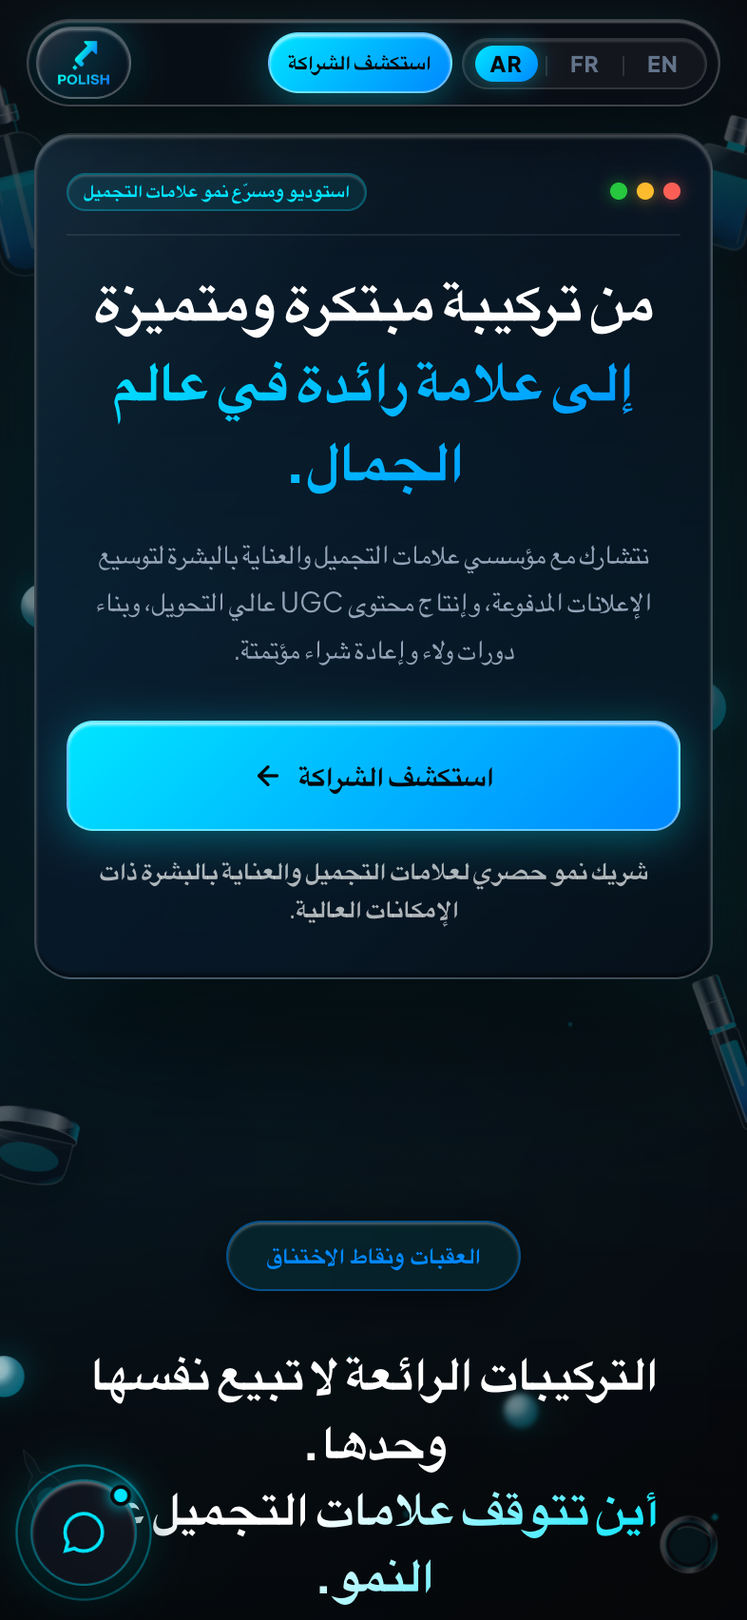
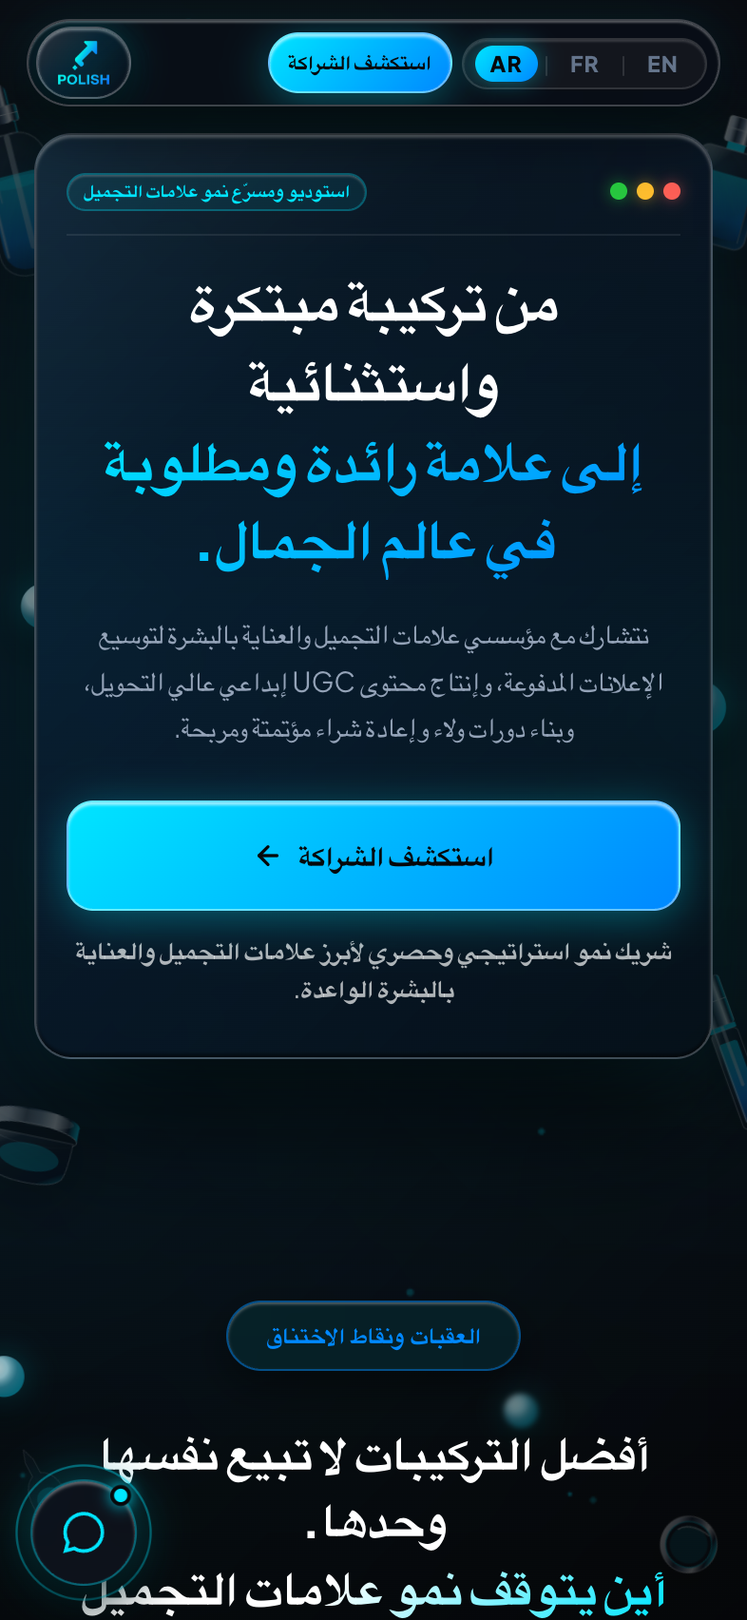
copy: elevate French and Arabic localization to authentic luxury direct-response standards

diff --git a/public/js/i18n.js b/public/js/i18n.js
@@ -134,39 +134,39 @@ const POLISH_TRANSLATIONS = {
     // Hero Section
     "hero.windowTag": "ACCÉLÉRATEUR & STUDIO DE CROISSANCE BEAUTÉ",
     "hero.eyebrow": "ACCÉLÉRATEUR & STUDIO DE CROISSANCE BEAUTÉ",
-    "hero.headlineLine1": "De la Formulation de Rupture",
+    "hero.headlineLine1": "De la Formulation d'Exception",
     "hero.headlineLine2": "À la Marque de Cosmétique Incontournable.",
-    "hero.description": "Nous accompagnons les marques de cosmétiques visionnaires pour accélérer leur acquisition payante, leurs campagnes créateurs UGC et leur rétention.",
+    "hero.description": "Nous nous associons aux fondateurs de marques de cosmétiques visionnaires pour accélérer l'acquisition payante, orchestrer des campagnes UGC créateurs à forte conversion et automatiser la fidélisation.",
     "hero.cta": "Découvrir le Partenariat",
-    "hero.microTrust": "Partenaire de croissance exclusif des marques de beauté et cosmétique.",
+    "hero.microTrust": "Partenaire de croissance exclusif des marques de beauté et cosmétique haut de gamme.",
 
     // Agitation Section
     "agit.eyebrow": "LES FREINS DU DTC BEAUTÉ",
-    "agit.headlineLine1": "Une bonne formule ne suffit pas.",
-    "agit.headlineLine2": "Là où les marques de beauté stagnent.",
-    "agit.description": "La plupart des marques de beauté stagnent par manque d'accroches visuelles renouvelées et de rentabilité publicitaire.",
-    "agit.card0.tag": "01 • FATIGUE CRÉATIVE",
-    "agit.card0.title": "Les Publicités S'épuisent Vite",
-    "agit.card0.desc": "Sans un flux constant de nouvelles accroches et vidéos, la fatigue publicitaire fait exploser votre coût d'acquisition.",
-    "agit.card1.tag": "02 • ZÉRO CONVERSION",
-    "agit.card1.title": "L'Esthétique Pure Ne Vend Pas",
-    "agit.card1.desc": "Les jolies vidéos ne suffisent pas. La conversion exige des scripts calibrés, des gros plans de texture et la démonstration des actifs.",
-    "agit.card2.tag": "03 • ZÉRO RÉPÉTITION",
-    "agit.card2.title": "Les Achats Uniques Rongent Vos Marges",
-    "agit.card2.desc": "Sans réassort sous 60 jours, votre rentabilité s'évapore. Nous transformons vos premiers acheteurs en clients réguliers.",
+    "agit.headlineLine1": "Une Formule d'Exception Ne Se Vend Pas Seule.",
+    "agit.headlineLine2": "Là où les marques de beauté rencontrent un plafond.",
+    "agit.description": "La plupart des marques de beauté stagnent non par manque de qualité produit, mais par épuisement créatif et hausse des coûts d'acquisition.",
+    "agit.card0.tag": "01 • ÉPUISEMENT CRÉATIF",
+    "agit.card0.title": "Vos Publicités S'essoufflent en 14 Jours",
+    "agit.card0.desc": "Sans un flux continu de nouvelles accroches et vidéos, l'usure publicitaire fait exploser votre coût d'acquisition client.",
+    "agit.card1.tag": "02 • DÉFICIT DE CONVERSION",
+    "agit.card1.title": "L'Esthétique Pure Ne Génère Pas de Ventes",
+    "agit.card1.desc": "Un feed soigné ne garantit aucun chiffre d'affaires. La conversion exige des accroches psychologiques, l'explication des actifs et la démonstration visuelle des textures.",
+    "agit.card2.tag": "03 • FAIBLE RÉASSORT",
+    "agit.card2.title": "Les Acheteurs Uniques Érodent Vos Marges",
+    "agit.card2.desc": "Sans deuxième achat sous 60 jours, l'acquisition grignote vos bénéfices. Nous transformons chaque première commande en réapprovisionnement récurrent.",
 
     // Pillars Section
     "pillars.eyebrow": "NOTRE MOTEUR DE CROISSANCE",
     "pillars.headlineLine1": "Conçu Spécifiquement",
-    "pillars.headlineLine2": "Pour l'Échelle des Marques de Beauté.",
+    "pillars.headlineLine2": "Pour l'Échelle des Marques de Beauté & Cosmétique.",
     "pillars.item0.title": "Studio Créateurs & UGC Haute Vélocité",
-    "pillars.item0.desc": "Créateurs beauté triés sur le volet, briefés avec des accroches percutantes et des démonstrations de texture.",
-    "pillars.item1.title": "Acquisition Payante Rentable (Meta & TikTok)",
-    "pillars.item1.desc": "Campagnes TikTok et Meta pilotées à la rentabilité pour maximiser votre retour sur investissement.",
-    "pillars.item2.title": "Optimisation du Taux de Conversion & Routines",
-    "pillars.item2.desc": "Pages de vente immersives, routines multi-produits et ventes croisées pour augmenter le Panier Moyen.",
-    "pillars.item3.title": "Fidélisation & Boucles de Réassort Automatisées",
-    "pillars.item3.desc": "Rappels de réapprovisionnement programmés et séquences VIP pour fidéliser vos clients mois après mois.",
+    "pillars.item0.desc": "Créateurs beauté triés sur le volet, briefés avec des accroches à forte conversion, des démonstrations de texture et des rituels de soin ciblés.",
+    "pillars.item1.title": "Acquisition Payante Axée sur la Rentabilité",
+    "pillars.item1.desc": "Campagnes TikTok et Meta pilotées à la rentabilité pour maximiser votre retour sur investissement publicitaire (ROAS) et générer une croissance pérenne.",
+    "pillars.item2.title": "Optimisation du Taux de Conversion & Offres Bundles",
+    "pillars.item2.desc": "Pages produits immersives, rituels multi-étapes et ventes complémentaires intelligentes pour augmenter significativement le Panier Moyen (AOV).",
+    "pillars.item3.title": "Boucles de Réassort & Rétention Automatisées",
+    "pillars.item3.desc": "Relances programmées de renouvellement et séquences VIP personnalisées pour maximiser la Valeur Vie Client (LTV) mois après mois.",
 
     // Footer
     "footer.copy": "© 2026 POLISH Media Co. Tous droits réservés.",
@@ -181,64 +181,64 @@ const POLISH_TRANSLATIONS = {
     "apply.eyebrow": "DOSSIER DE PARTENARIAT",
     "apply.h1Line1": "Développez Votre Marque de Beauté.",
     "apply.h1Line2": "Postulez au Partenariat Studio.",
-    "apply.p": "Complétez ce dossier confidentiel en 2 minutes pour étudier l'accélération de votre marque.",
+    "apply.p": "Complétez ce dossier confidentiel en 2 minutes pour étudier l'accélération de votre marque avec POLISH.",
     "apply.step1": "1. Profil Marque",
     "apply.step2": "2. Catégorie & Objectifs",
     "apply.step1Title": "Profil de la Marque & Contact",
-    "apply.step1Desc": "Indiquez les liens pour découvrir vos produits et vos créations.",
+    "apply.step1Desc": "Indiquez les informations de votre marque et les liens pour découvrir vos formulations.",
     "apply.step2Title": "Catégorie & Votre Rôle",
-    "apply.step2Desc": "Précisez votre positionnement produit et votre fonction.",
+    "apply.step2Desc": "Précisez votre segment de marché et vos responsabilités décisionnelles.",
     "apply.step3Title": "Organisation Marketing Actuelle",
-    "apply.step3Desc": "Comment réalisez-vous actuellement votre acquisition ?",
+    "apply.step3Desc": "Comment réalisez-vous actuellement votre acquisition de nouveaux clients ?",
     "apply.fullName": "Nom et Prénom",
     "apply.brandName": "Nom de la Marque",
     "apply.businessCategory": "Catégorie de Produits",
     "apply.role": "Votre Rôle",
     "apply.websiteUrl": "Site Web / Boutique en Ligne",
     "apply.socialLink": "Lien Réseau Social Principal (Instagram / TikTok)",
-    "apply.marketingHistory": "Statut Marketing",
-    "apply.primaryGoal": "Objectif Principal à 90 Jours",
-    "apply.optSkin": "Soins de la Peau & Clinique",
-    "apply.optColor": "Maquillage & Cosmétique",
+    "apply.marketingHistory": "Statut Marketing Actuel",
+    "apply.primaryGoal": "Objectif Prioritaire à 90 Jours",
+    "apply.optSkin": "Soins de la Peau & Cosmétique Clinique",
+    "apply.optColor": "Maquillage & Cosmétique Couleur",
     "apply.optHair": "Soins Capillaires & Cuir Chevelu",
-    "apply.optFragrance": "Parfumerie & Corps",
-    "apply.optFounder": "Fondateur / CEO",
-    "apply.optMarketing": "Directeur Marketing / CMO",
+    "apply.optFragrance": "Haute Parfumerie & Soins Corps",
+    "apply.optFounder": "Fondateur / Directeur Général (CEO)",
+    "apply.optMarketing": "Directeur Marketing (CMO)",
     "apply.optEcommerce": "Directeur E-Commerce",
-    "apply.optAgency": "Représentant de Marque",
-    "apply.optHistNone": "Organique / Influence uniquement (pas encore de pubs)",
-    "apply.optHistAgency": "En agence actuellement, recherche de meilleures créas & ROAS",
-    "apply.optHistInHouse": "En interne, prêt à accélérer la rentabilité",
-    "apply.optHistStarting": "Marque en pré-lancement ou récente",
+    "apply.optAgency": "Représentant Officiel de la Marque",
+    "apply.optHistNone": "Croissance organique & influence uniquement (aucun budget publicitaire actif)",
+    "apply.optHistAgency": "En agence actuellement, à la recherche de meilleures créas et d'un ROAS supérieur",
+    "apply.optHistInHouse": "Gestion interne, prêt à accélérer la rentabilité à grande échelle",
+    "apply.optHistStarting": "Marque en cours de lancement ou récente sur le marché",
     "apply.btnNext": "Continuer →",
     "apply.btnBack": "← Retour",
-    "apply.btnSubmit": "Envoyer le Dossier de Partenariat",
-    "apply.trustNda": "100% Confidentiel : Protégé sous accord NDA strict.",
-    "apply.trustReview": "Examen Direct : Analysé personnellement sous 24h.",
-    "apply.successTitle": "Dossier Reçu",
-    "apply.successP": "Votre dossier a été enregistré. Un directeur associé analysera votre marque sous 24 heures.",
+    "apply.btnSubmit": "Soumettre le Dossier de Partenariat",
+    "apply.trustNda": "Confidentialité Absolue 100% : Protégé par un accord de non-divulgation strict (NDA).",
+    "apply.trustReview": "Examen Personnalisé : Analysé directement par la direction sous 24h ouvrées.",
+    "apply.successTitle": "Dossier Enregistré avec Succès",
+    "apply.successP": "Votre dossier a été transmis à notre comité de direction. Un associé analysera votre marque et vous contactera sous 24 heures.",
     "apply.successCta": "Contacter la Direction sur WhatsApp →",
 
     // Creators Page
-    "creators.title": "Réseau Créateurs | POLISH Media Co",
+    "creators.title": "Réseau Créateurs & UGC | POLISH Media Co",
     "creators.eyebrow": "RÉSEAU CRÉATEURS & UGC",
-    "creators.h1": "Créez pour les Marques de Beauté.",
-    "creators.h1Line1": "Créez pour les Marques de Beauté.",
-    "creators.h1Line2": "Rejoignez le Réseau POLISH.",
-    "creators.h1Accent": "Rejoignez le Réseau POLISH.",
-    "creators.p": "Participez à des tournages rémunérés, recevez des produits et accédez à des partenariats réguliers.",
+    "creators.h1": "Créez pour les Plus Belles Marques de Beauté.",
+    "creators.h1Line1": "Créez pour les Plus Belles Marques de Beauté.",
+    "creators.h1Line2": "Rejoignez le Réseau Exclusif POLISH.",
+    "creators.h1Accent": "Rejoignez le Réseau Exclusif POLISH.",
+    "creators.p": "Participez à des campagnes rémunérées, recevez des dotations produits exclusives et accédez à des contrats récurrents.",
     "creators.fullName": "Nom et Prénom",
-    "creators.socialHandle": "Lien Profil Réseau Social Principal",
-    "creators.socialHint": "Lien Instagram ou TikTok pour évaluer votre univers.",
-    "creators.portfolio": "Lien Portfolio / Vidéos",
-    "creators.portfolioHint": "Extraits UGC, unboxings ou démonstrations (optionnel).",
-    "creators.phone": "Numéro WhatsApp ou Téléphone",
-    "creators.phoneHint": "Pour échanger rapidement sur les tournages rémunérés.",
-    "creators.btnSubmit": "Soumettre mon Profil Créateur",
-    "creators.trustReview": "Sélection Rapide : Les créateurs retenus sont contactés sur WhatsApp pour les prochains tournages.",
-    "creators.successTitle": "Profil Reçu",
-    "creators.successP": "Votre profil a été ajouté à notre base de casting sous la référence :",
-    "creators.successCta": "Échanger avec le Casting sur WhatsApp →"
+    "creators.socialHandle": "Lien de Votre Profil Social Principal",
+    "creators.socialHint": "Lien Instagram ou TikTok pour évaluer votre présence et univers créatif.",
+    "creators.portfolio": "Portfolio / Vidéos Réalisées (Optionnel)",
+    "creators.portfolioHint": "Extraits UGC passés, unboxings ou démonstrations de texture.",
+    "creators.phone": "Numéro WhatsApp / Téléphone",
+    "creators.phoneHint": "Pour échanger directement lors des sélections de casting pour les tournages rémunérés.",
+    "creators.btnSubmit": "Soumettre ma Candidature Créateur",
+    "creators.trustReview": "Sélection Rapide : Les créateurs retenus sont contactés sur WhatsApp sous 48h.",
+    "creators.successTitle": "Candidature Bien Reçue",
+    "creators.successP": "Votre profil a été intégré à notre base de casting créateurs sous la référence :",
+    "creators.successCta": "Échanger avec l'Équipe Casting sur WhatsApp →"
   },
 
   ar: {
@@ -251,39 +251,39 @@ const POLISH_TRANSLATIONS = {
     // Hero Section
     "hero.windowTag": "استوديو ومسرّع نمو علامات التجميل",
     "hero.eyebrow": "استوديو ومسرّع نمو علامات التجميل",
-    "hero.headlineLine1": "من تركيبة مبتكرة ومتميزة",
-    "hero.headlineLine2": "إلى علامة رائدة في عالم الجمال.",
-    "hero.description": "نتشارك مع مؤسسي علامات التجميل والعناية بالبشرة لتوسيع الإعلانات المدفوعة، وإنتاج محتوى UGC عالي التحويل، وبناء دورات ولاء وإعادة شراء مؤتمتة.",
+    "hero.headlineLine1": "من تركيبة مبتكرة واستثنائية",
+    "hero.headlineLine2": "إلى علامة رائدة ومطلوبة في عالم الجمال.",
+    "hero.description": "نتشارك مع مؤسسي علامات التجميل والعناية بالبشرة لتوسيع الإعلانات المدفوعة، وإنتاج محتوى UGC إبداعي عالي التحويل، وبناء دورات ولاء وإعادة شراء مؤتمتة ومربحة.",
     "hero.cta": "استكشف الشراكة",
-    "hero.microTrust": "شريك نمو حصري لعلامات التجميل والعناية بالبشرة ذات الإمكانات العالية.",
+    "hero.microTrust": "شريك نمو استراتيجي وحصري لأبرز علامات التجميل والعناية بالبشرة الواعدة.",
 
     // Agitation Section
     "agit.eyebrow": "العقبات ونقاط الاختناق",
-    "agit.headlineLine1": "التركيبات الرائعة لا تبيع نفسها وحدها.",
-    "agit.headlineLine2": "أين تتوقف علامات التجميل عن النمو.",
-    "agit.description": "معظم علامات التجميل تتعثر ليس بسبب ضعف منتجاتها، بل بسبب استنزاف الإعلانات والارتفاع المستمر في تكلفة اكتساب العملاء.",
-    "agit.card0.tag": "01 • استنزاف الإعلانات",
+    "agit.headlineLine1": "أفضل التركيبات لا تبيع نفسها وحدها.",
+    "agit.headlineLine2": "أين يتوقف نمو علامات التجميل الواعدة؟",
+    "agit.description": "معظم علامات التجميل لا تتعثر بسبب جودة منتجاتها، بل بسبب استنزاف الأفكار الإعلانية والارتفاع المتواصل في تكاليف اكتساب العملاء.",
+    "agit.card0.tag": "01 • استنزاف المحتوى الإعلاني",
     "agit.card0.title": "الإعلانات تفقد بريقها خلال 14 يوماً",
-    "agit.card0.desc": "بدون تدفق مستمر لأفكار وزوايا فيديو جديدة، تتراجع استجابة الجمهور وترتفع تكلفة الاستحواذ على العملاء بشكل كبير.",
-    "agit.card1.tag": "02 • غياب التحويل الفعلي",
-    "agit.card1.title": "المشاهدات الجمالية لا تضمن مبيعات",
-    "agit.card1.desc": "المحتوى الجذاب وحده لا يكفي. تحقيق المبيعات يتطلب خطافات بصرية مدروسة، وشرحاً للتركيبة، وإثباتاً ملموساً لنتائج المنتج على البشرة.",
-    "agit.card2.tag": "03 • ضعف إعادة الشراء",
+    "agit.card0.desc": "بدون تجديد مستمر لزوايا الفيديو والخطافات البصرية، تتراجع معدلات النقر وترتفع تكلفة الاستحواذ على العملاء بشكل حاد.",
+    "agit.card1.tag": "02 • ضعف معدلات التحويل المالي",
+    "agit.card1.title": "المشاهدات الجمالية لا تعني بالضرورة مبيعات",
+    "agit.card1.desc": "المحتوى الأنيق وحده لا يحقق أرباحاً. تحقيق المبيعات يتطلب خطافات نفسية مدروسة، وشرحاً مقنعاً للتركيبة، وإثباتاً ملموساً لقوام ونتائج المنتج على البشرة.",
+    "agit.card2.tag": "03 • غياب تكرار الشراء",
     "agit.card2.title": "المشترون لمرة واحدة يستنزفون هوامش الربح",
-    "agit.card2.desc": "إذا لم يكرر العميل الشراء خلال 60 يوماً، فإن تكلفة الإعلانات تلتهم أرباحك. نحن نحول المشترين الجدد إلى عملاء دائمين يطلبون بانتظام.",
+    "agit.card2.desc": "إذا لم تعد المشترية للطلب خلال 60 يوماً، فإن تكاليف الإعلانات تلتهم أرباحك الصافية. نحن نحول الطلبات الفردية إلى دورات إعادة شراء مستمرة.",
 
     // Pillars Section
-    "pillars.eyebrow": "محرك النمو",
+    "pillars.eyebrow": "محرك النمو الاستراتيجي",
     "pillars.headlineLine1": "مصمم خصيصاً",
-    "pillars.headlineLine2": "لتوسيع ومضاعفة مبيعات التجميل والعناية.",
-    "pillars.item0.title": "استوديو محتوى UGC عالي الكثافة",
-    "pillars.item0.desc": "صناع محتوى تجميل معتمدون وموجّهون بأفضل زوايا التصوير، واستعراض قوام المنتجات، وخطوات العناية بالبشرة عالية التأثير.",
-    "pillars.item1.title": "إعلانات مدفوعة تركز على الربحية",
-    "pillars.item1.desc": "حملات موجهة عبر Meta وTikTok مدروسة بعناية لتحقيق أعلى عائد على الإنفاق الإعلاني (ROAS) ونمو مستدام.",
-    "pillars.item2.title": "تحسين التحويل وباقات الروتين التجميلي",
-    "pillars.item2.desc": "صفحات هبوط عالية الإقناع، وباقات روتين متكاملة، وخيارات ترقية ذكية ترفع متوسط قيمة الطلب (AOV).",
-    "pillars.item3.title": "دورات إعادة طلب مؤتمتة",
-    "pillars.item3.desc": "تذكيرات ذكية لإعادة تعبئة المنتجات وسلاسل ولاء لكبار العملاء لتعظيم القيمة الدائمة لكل مشترية.",
+    "pillars.headlineLine2": "لمضاعفة مبيعات علامات التجميل والعناية بالبشرة.",
+    "pillars.item0.title": "استوديو إنتاج UGC عالي الكثافة",
+    "pillars.item0.desc": "صناع محتوى تجميل معتمدون وموجّهون بأفضل زوايا التصوير، واستعراض قوام المنتجات، وخطوات العناية بالبشرة المؤثرة.",
+    "pillars.item1.title": "إعلانات مدفوعة موجهة للربحية",
+    "pillars.item1.desc": "حملات ذكية عبر Meta وTikTok مدروسة بدقة لتحقيق أعلى عائد على الإنفاق الإعلاني (ROAS) وتوسيع المبيعات بربحية.",
+    "pillars.item2.title": "تحسين صفحات الهبوط وباقات الروتين التجميلي",
+    "pillars.item2.desc": "صفحات هبوط غامرة عالية الإقناع، وحزم روتين متكاملة، وخيارات ترقية ذكية ترفع متوسط قيمة الطلب (AOV).",
+    "pillars.item3.title": "دورات إعادة شراء وولاء مؤتمتة",
+    "pillars.item3.desc": "تذكيرات ذكية لإعادة تعبئة المنتجات وسلاسل رسائل لكبار العملاء لتعظيم القيمة الدائمة لكل مشترية (LTV).",
 
     // Footer
     "footer.copy": "© 2026 POLISH Media Co. جميع الحقوق محفوظة.",
@@ -298,64 +298,64 @@ const POLISH_TRANSLATIONS = {
     "apply.eyebrow": "ملف طلب الشراكة",
     "apply.h1Line1": "ضاعف نمو علامتك التجميلية.",
     "apply.h1Line2": "قدّم للانضمام إلى شراكة الاستوديو.",
-    "apply.p": "أكمل هذا الاستبيان السري في دقيقتين لبحث سبل تسريع نمو علامتك التجارية مع POLISH.",
+    "apply.p": "أكمل هذا الاستبيان السري في دقيقتين لبحث سبل تسريع نمو علامتك التجارية مع استوديو POLISH.",
     "apply.step1": "1. ملف العلامة",
     "apply.step2": "2. الفئة والنمو",
     "apply.step1Title": "ملف العلامة وبيانات التواصل",
-    "apply.step1Desc": "أخبرنا عن علامتك التجارية وأين يمكننا الاطلاع على منتجاتك.",
-    "apply.step2Title": "الفئة ودورك في العلامة",
-    "apply.step2Desc": "حدد مجال منتجاتك الرئيسي ودورك القيادي.",
+    "apply.step1Desc": "أخبرنا عن علامتك التجارية وأين يمكننا الاطلاع على منتجاتك وتركيباتك.",
+    "apply.step2Title": "فئة المنتجات ودورك القيادي",
+    "apply.step2Desc": "حدد مجال منتجاتك الرئيسي ومسؤوليتك الإدارية في العلامة.",
     "apply.step3Title": "الوضع التسويقي الحالي",
-    "apply.step3Desc": "كيف تقوم حالياً باكتساب العملاء والمبيعات؟",
+    "apply.step3Desc": "كيف تقوم حالياً باكتساب العملاء الجدد وتحقيق المبيعات؟",
     "apply.fullName": "الاسم الكامل",
     "apply.brandName": "اسم العلامة التجارية",
-    "apply.businessCategory": "فئة المنتجات",
+    "apply.businessCategory": "فئة المنتجات الرئيسية",
     "apply.role": "دورك ومسؤوليتك",
-    "apply.websiteUrl": "المتجر الإلكتروني / الموقع",
-    "apply.socialLink": "رابط الحساب الرئيسي (Instagram / TikTok)",
-    "apply.marketingHistory": "الوضع التسويقي الحالي",
-    "apply.primaryGoal": "الهدف الرئيسي لـ 90 يوماً القادمة",
-    "apply.optSkin": "العناية بالبشرة والمنتجات العلاجية",
-    "apply.optColor": "المكياج ومستحضرات التجميل",
-    "apply.optHair": "العناية بالشعر وفروة الرأس",
-    "apply.optFragrance": "العطور والعناية بالجسم",
+    "apply.websiteUrl": "المتجر الإلكتروني / رابط الموقع",
+    "apply.socialLink": "رابط الحساب الاجتماعي الرئيسي (Instagram / TikTok)",
+    "apply.marketingHistory": "الوضع التسويقي الإعلاني الحالي",
+    "apply.primaryGoal": "الهدف الاستراتيجي لـ 90 يوماً القادمة",
+    "apply.optSkin": "العناية بالبشرة والمنتجات العلاجية السريرية",
+    "apply.optColor": "المكياج ومستحضرات التجميل الملونة",
+    "apply.optHair": "العناية بالشعر وصحة فروة الرأس",
+    "apply.optFragrance": "العطور الفاخرة والعناية بالجسم",
     "apply.optFounder": "المؤسس / الرئيس التنفيذي (CEO)",
     "apply.optMarketing": "مدير التسويق (CMO)",
     "apply.optEcommerce": "مدير التجارة الإلكترونية",
-    "apply.optAgency": "ممثل العلامة التجارية",
-    "apply.optHistNone": "تسويق عضوي ومؤثرين فقط (بدون إعلانات ممولة بعد)",
-    "apply.optHistAgency": "نتعامل مع وكالة، ونبحث عن محتوى أفضل وعائد أعلى",
-    "apply.optHistInHouse": "ندير التسويق داخلياً، ومستعدون للتوسع بربحية",
-    "apply.optHistStarting": "علامة جديدة أو في مرحلة ما قبل الإطلاق",
+    "apply.optAgency": "ممثل رسمي للعلامة التجارية",
+    "apply.optHistNone": "تسويق عضوي ومؤثرين فقط (بدون ميزانية إعلانية مدفوعة حالياً)",
+    "apply.optHistAgency": "نتعامل مع وكالة، ونبحث عن محتوى إبداعي أقوى وعائد إعلاني أعلى (ROAS)",
+    "apply.optHistInHouse": "ندير التسويق داخلياً، ومستعدون لمضاعفة المبيعات بربحية عالية",
+    "apply.optHistStarting": "علامة جديدة في مرحلة الإطلاق أو التأسيس الحديث",
     "apply.btnNext": "متابعة ←",
     "apply.btnBack": "→ السابق",
     "apply.btnSubmit": "إرسال ملف الشراكة",
-    "apply.trustNda": "سرية تامة 100%: محمية باتفاقية عدم إفصاح صارمة (NDA).",
-    "apply.trustReview": "تقييم مباشر: تتم دراسة ملفك شخصياً خلال 24 ساعة.",
-    "apply.successTitle": "تم استلام الطلب بنجاح",
-    "apply.successP": "تم تسجيل ملف علامتك بنجاح. سيقوم أحد الشركاء بدراسة ملفك والرد خلال 24 ساعة.",
+    "apply.trustNda": "سرية تامة 100%: جميع البيانات محمية باتفاقية عدم إفصاح قانونية صارمة (NDA).",
+    "apply.trustReview": "تقييم مباشر: تتم دراسة ملف علامتك شخصياً من قِبل الشركاء خلال 24 ساعة.",
+    "apply.successTitle": "تم استلام ملف طلب الشراكة بنجاح",
+    "apply.successP": "تم تسجيل بيانات علامتك بنجاح. سيقوم أحد الشركاء بدراسة ملفك والتواصل معك خلال 24 ساعة.",
     "apply.successCta": "التواصل المباشر مع الإدارة عبر واتساب ←",
 
     // Creators Page
-    "creators.title": "شبكة المبدعين | POLISH Media Co",
+    "creators.title": "شبكة المبدعين & UGC | POLISH Media Co",
     "creators.eyebrow": "شبكة المبدعين & UGC",
-    "creators.h1": "اصنع المحتوى لأرقى علامات التجميل.",
-    "creators.h1Line1": "اصنع المحتوى لأرقى علامات التجميل.",
-    "creators.h1Line2": "انضم إلى شبكة POLISH لصناع المحتوى.",
-    "creators.h1Accent": "انضم إلى شبكة POLISH لصناع المحتوى.",
-    "creators.p": "احصل على فرص للمشاركة في حملات مدفوعة، وتجارب منتجات مجانية، وعقود شهرية مستمرة.",
+    "creators.h1": "اصنع المحتوى لأرقى علامات التجميل العالمية.",
+    "creators.h1Line1": "اصنع المحتوى لأرقى علامات التجميل العالمية.",
+    "creators.h1Line2": "انضم إلى شبكة POLISH الحصرية لصناع المحتوى.",
+    "creators.h1Accent": "انضم إلى شبكة POLISH الحصرية لصناع المحتوى.",
+    "creators.p": "احصل على فرص للمشاركة في حملات إعلانية مدفوعة، وتجارب منتجات فاخرة، وعقود تصوير شهرية مستمرة.",
     "creators.fullName": "الاسم الكامل",
     "creators.socialHandle": "رابط حسابك الاجتماعي الرئيسي",
-    "creators.socialHint": "رابط حسابك على Instagram أو TikTok لمراجعة أسلوبك أمام الكاميرا.",
-    "creators.portfolio": "رابط معرض الأعمال / الفيديوهات",
-    "creators.portfolioHint": "مقاطع UGC سابقة، تجارب منتجات أو استعراض لقوام المنتجات (اختياري).",
+    "creators.socialHint": "رابط حسابك على Instagram أو TikTok لمراجعة أسلوبك أمام الكاميرا وجودة تصويرك.",
+    "creators.portfolio": "معرض الأعمال / روابط الفيديوهات السابقة (اختياري)",
+    "creators.portfolioHint": "مقاطع UGC سابقة، تجارب فتح الصناديق (Unboxing) أو استعراض لقوام المنتجات.",
     "creators.phone": "رقم الواتساب أو الهاتف",
-    "creators.phoneHint": "للتواصل السريع وحجزك للحملات الإعلانية القادمة.",
-    "creators.btnSubmit": "إرسال ملف صانع المحتوى",
+    "creators.phoneHint": "للتواصل السريع وترشيحك للحملات الإعلانية وجلسات التصوير القادمة.",
+    "creators.btnSubmit": "إرسال طلب الانضمام لشبكة المبدعين",
     "creators.trustReview": "ترشيح واختيار سريع: يتم التواصل مع صناع المحتوى المختارين عبر واتساب لجلسات التصوير المدفوعة.",
     "creators.successTitle": "تم استلام ملفك بنجاح",
     "creators.successP": "تمت إضافة ملفك إلى قاعدة بيانات المبدعين لدينا تحت الرقم المرجعي:",
-    "creators.successCta": "تأكيد التسجيل عبر واتساب ←"
+    "creators.successCta": "تأكيد التسجيل مع فريق الكاستينغ عبر واتساب ←"
   }
 };
 
